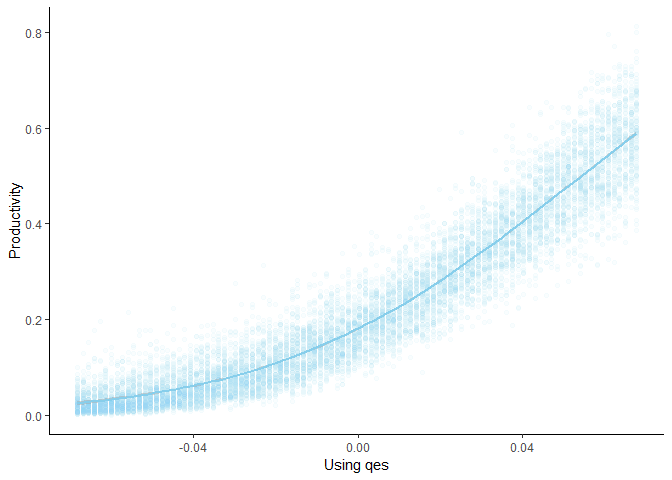
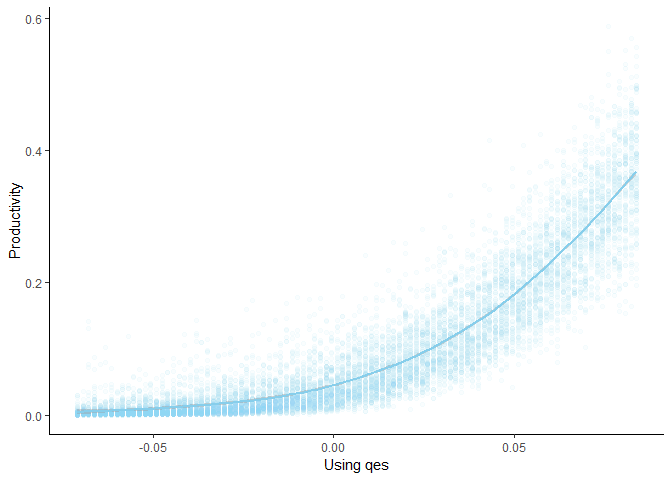
small changes to sim

diff --git a/README.md b/README.md
@@ -38,7 +38,7 @@ Example 2:
 ----------
 
 ``` r
-dat$y2 <- dat$y > 0.5
+dat$y2 <- dat$y > 0.98
 example.model <- zelig(y2 ~ x1 + x2 + x3, data = dat, model = "probit", cite = FALSE) 
 
 qes(example.model, iv.var = "x3", xlab = "Using qes", ylab = "Productivity", progress = FALSE)
@@ -50,12 +50,13 @@ Arguments:
 ----------
 
 -   **zelig.model** - Fitted zelig model
--   **iv.var** - Independent variable. sim.n Number of simulations for each value of iv.var simulated. Defaults to 100.
+-   **iv.var** - Independent variable.
+-   **sim.n** - (Optional) Number of simulations for each value of iv.var simulated. Defaults to 100.
 -   **range.n** - (Optional) Number of different values of iv.var to simulate. Defaults to 100.
 -   **custom.range** - (Optional) Vector of two values specifying a range within which different values of iv.var should be simulated.
--   **return.pdata** - Should the data to construct the plot be returned instead of the plot itself? Defaults to FALSE.
+-   **return.pdata** - (Optional) Should the data to construct the plot be returned instead of the plot itself? Defaults to FALSE.
 -   **progress** - (Optional) Should progress be reported? Defaults to TRUE.
--   **coord.ylim** - Sets limits on what part of the x.axis to display through ggplots coord\_cartesian() function.
+-   **coord.ylim** - (Optional) Sets limits on what part of the x.axis to display through ggplots coord\_cartesian() function.
 -   **set.covar** - (Optional) Option to specify values of other predictors in simulations.
 
 References:
